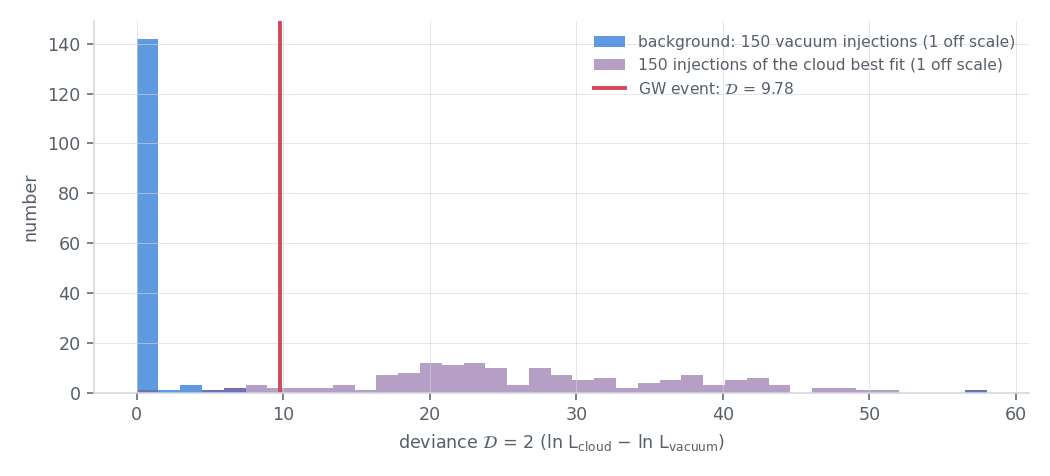
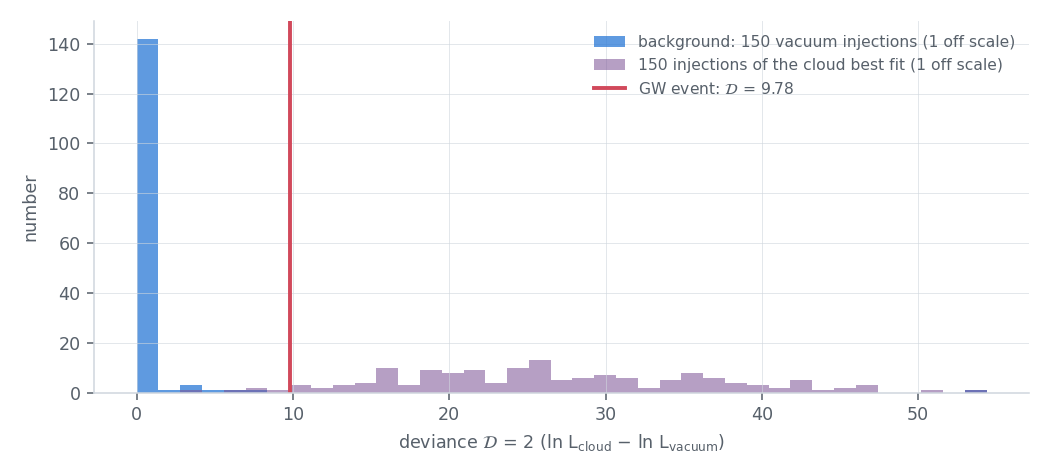
docs scalar_cloud: sensitivity from the 150 injections of the new cloud best fit (3.3% at or below the event's deviance); figures from the report with the vacuum fit of the deviance

diff --git a/docs/modes/scalar-cloud.md b/docs/modes/scalar-cloud.md
@@ -39,7 +39,7 @@ that analysis and adds a frequentist check around it.
 | best fits of both models and the **deviance** \(\mathcal{D}\) = 2 Δln L, the likelihood-ratio test statistic ([below](#the-test)) | a Bayes factor costs about a day on 64 CPUs per run; a best fit costs about an hour, so \(\mathcal{D}\) can be computed on the event *and* on 150 noise segments |
 | fits started from the samples of the superradiance sampling (`seeded`) | the cloud mode is separate from the vacuum one: fits started from the vacuum best fit miss it (\(\mathcal{D}\) = 0.96 instead of 9.78) |
 | the background: the vacuum best fit injected into 150 off-source segments, p-value | the Bayes factor says which model the data prefer *given the priors*; it does not say how often noise alone produces such a preference. The background measures that, independently of the prior on the cloud |
-| the sensitivity (an injection–recovery test): the cloud best fit injected into the same segments | tells whether the event's \(\mathcal{D}\) is what a real cloud of that kind would give (it is lower: 5.3% of injections at or below it) |
+| the sensitivity (an injection–recovery test): the cloud best fit injected into the same segments | tells whether the event's \(\mathcal{D}\) is what a real cloud of that kind would give (it is lower: 3.3% of injections at or below it) |
 | the gain by detector and frequency band | a cloud dephases the whole low-frequency inspiral; a gain concentrated in a narrow band of one detector points to noise rather than to the effect |
 | the agnostic Bayes factor against the upper end of the density prior | the paper does not give that upper end, and the agnostic Bayes factor depends on it |
 | the boson mass in continuous waves | connects the result to the [continuous_waves](continuous-waves.md) mode |
@@ -215,9 +215,8 @@ pool.
 
 On a Slurm cluster (`--executor slurm`): the three samplings with the paper's 1000 live points (64 CPUs with
 `--npool 64`; the default is 32: 5.5 h for vacuum, 33 h for each cloud model), then 151 jobs of about an hour for
-the event and the background. The injections of a cloud best fit (`scalar_cloud.py seeded --inject cloud`, 150
-jobs) come from an earlier run, whose cloud samplings had 500 live points: see
-[Between two distributions](#gw190728_064510) below.
+the event and the background, and 150 for the injections of the cloud best fit
+(`scalar_cloud.py seeded --inject cloud`).
 
 | | ln L ratio | Note |
 |---|---|---|
@@ -232,7 +231,7 @@ jobs) come from an earlier run, whose cloud samplings had 500 live points: see
 | ln L cloud − ln L vacuum, posterior medians (time-marginalized ln L of the samplings, lower than the fixed-time best fits above) | 4.17 superradiance, 4.12 agnostic | ≈ 3.7 (Supplemental Material, Fig. 8 inset) |
 | chirp mass (detector frame), posterior median and 90% | vacuum 10.14 (10.05–10.23), superradiance 9.89 (9.72–10.16), agnostic 9.89 (9.71–10.15) M☉ | vacuum 10.14 (+0.10/−0.09), cloud 9.69 (+0.27/−0.28) M☉ (Fig. 8) |
 | background | 2 of 151 at \(\mathcal{D}\) ≥ 9.78 (the event and one segment with a loud transient, \(\mathcal{D}\) = 98), p = 0.013; 0.007 without that segment; the 149 others at most 7.0, 140 of them at 0 | none (the paper's statistic is the Bayes factor) |
-| injections of a cloud best fit (sensitivity; the earlier run's fit, see below) | \(\mathcal{D}\) = 25 (5–95%: 9.9–44); 5.3% at or below the event's 9.78 | none |
+| injections of the cloud best fit (sensitivity) | \(\mathcal{D}\) = 25 (5–95%: 11–44); 3.3% at or below the event's 9.78 | none |
 | ln B, superradiance prior (τ_d = 10⁶ yr); ± the statistical uncertainty of the nested-sampling evidences | **1.06 ± 0.24** | 3.5 |
 | ln B, agnostic prior (\(\bar\rho_\phi \le 10^9\) g/cm³) | **−1.21 ± 0.25** | 0.4 (upper end of the prior not given) |
 | \(\bar\rho_\phi\), agnostic (90%) | 2.7 (0.8–5.8) × 10⁷ g/cm³ | broad, peak ≈ 0.35 × 10⁸, up to ~1 × 10⁸ (read off Fig. 3, not stated in the text) |
@@ -289,12 +288,10 @@ much near this mode.
 
 ![Background of 𝒟 and injections of the cloud best fit](../img/modes/scalar_cloud_background_GW190728.png)
 
-**Between two distributions.** The injections of a cloud were not repeated for this run: they are those of an
-earlier run (cloud samplings with 500 live points), whose cloud best fit was \(\bar\rho_\phi\) = 5.8 × 10⁶ g/cm³ and
-α = 0.19 (ln L 96.30, \(\mathcal{D}\) = 8.98), close to the present one. The same procedure on that fit injected into
-the 150 off-source segments gives \(\mathcal{D}\) around 25, the density and α recovered near the injected values
-(median 8.4 × 10⁶ g/cm³ and 0.16): 5.3% of these injections give \(\mathcal{D}\) ≤ 9.78. The event is above what noise gives around vacuum
-(p ≈ 0.01) and below what this cloud would give (≈ 5%): a weaker effect, or a noise fluctuation at 30 Hz on a
+**Between two distributions.** The same procedure on the event's cloud best fit injected into the 150 off-source
+segments gives \(\mathcal{D}\) around 25, the density and α recovered near the injected values (median 1.2 × 10⁷ g/cm³
+and 0.14 for 9.3 × 10⁶ and 0.16 injected): 3.3% of these injections give \(\mathcal{D}\) ≤ 9.78. The event is above what noise gives around vacuum
+(p ≈ 0.01) and below what this cloud would give (≈ 3%): a weaker effect, or a noise fluctuation at 30 Hz on a
 vacuum signal, fits both better than the best-fit cloud.
 
 ![Posteriors of the density and of the scalar mass](../img/modes/scalar_cloud_cloud_posteriors_GW190728.png)

diff --git a/CHANGELOG.md b/CHANGELOG.md
@@ -30,8 +30,8 @@
 - **scalar_cloud** docs: the GW190728 section follows a new full run with the paper's 1000 live points for the
   three samplings: 𝒟 = 9.78 (was 8.98), p = 0.013 against 150 vacuum injections, ln B = 1.06 ± 0.24 with the
   superradiance prior and −1.21 ± 0.25 with the agnostic one (were 1.34 and −0.82); boson mass 0.67–1.17 × 10⁻¹² eV,
-  continuous waves at 324–568 Hz. The injections of a cloud best fit are those of the earlier run. The
-  matched-filter figure replaces the whitened strain overlay.
+  continuous waves at 324–568 Hz; 3.3% of the 150 injections of the cloud best fit at or below the event's 𝒟
+  (was 4.7%). The matched-filter figure replaces the whitened strain overlay.
 - **continuous_waves**: the default boson band is the one of the new scalar_cloud run of GW190728,
   0.67–0.86–1.17 × 10⁻¹² eV (was 0.70–0.89–1.17): 324–566 Hz, light black holes of 8–30 M☉ at 1 kpc, young clouds
   excluded out to 16–36 kpc.
